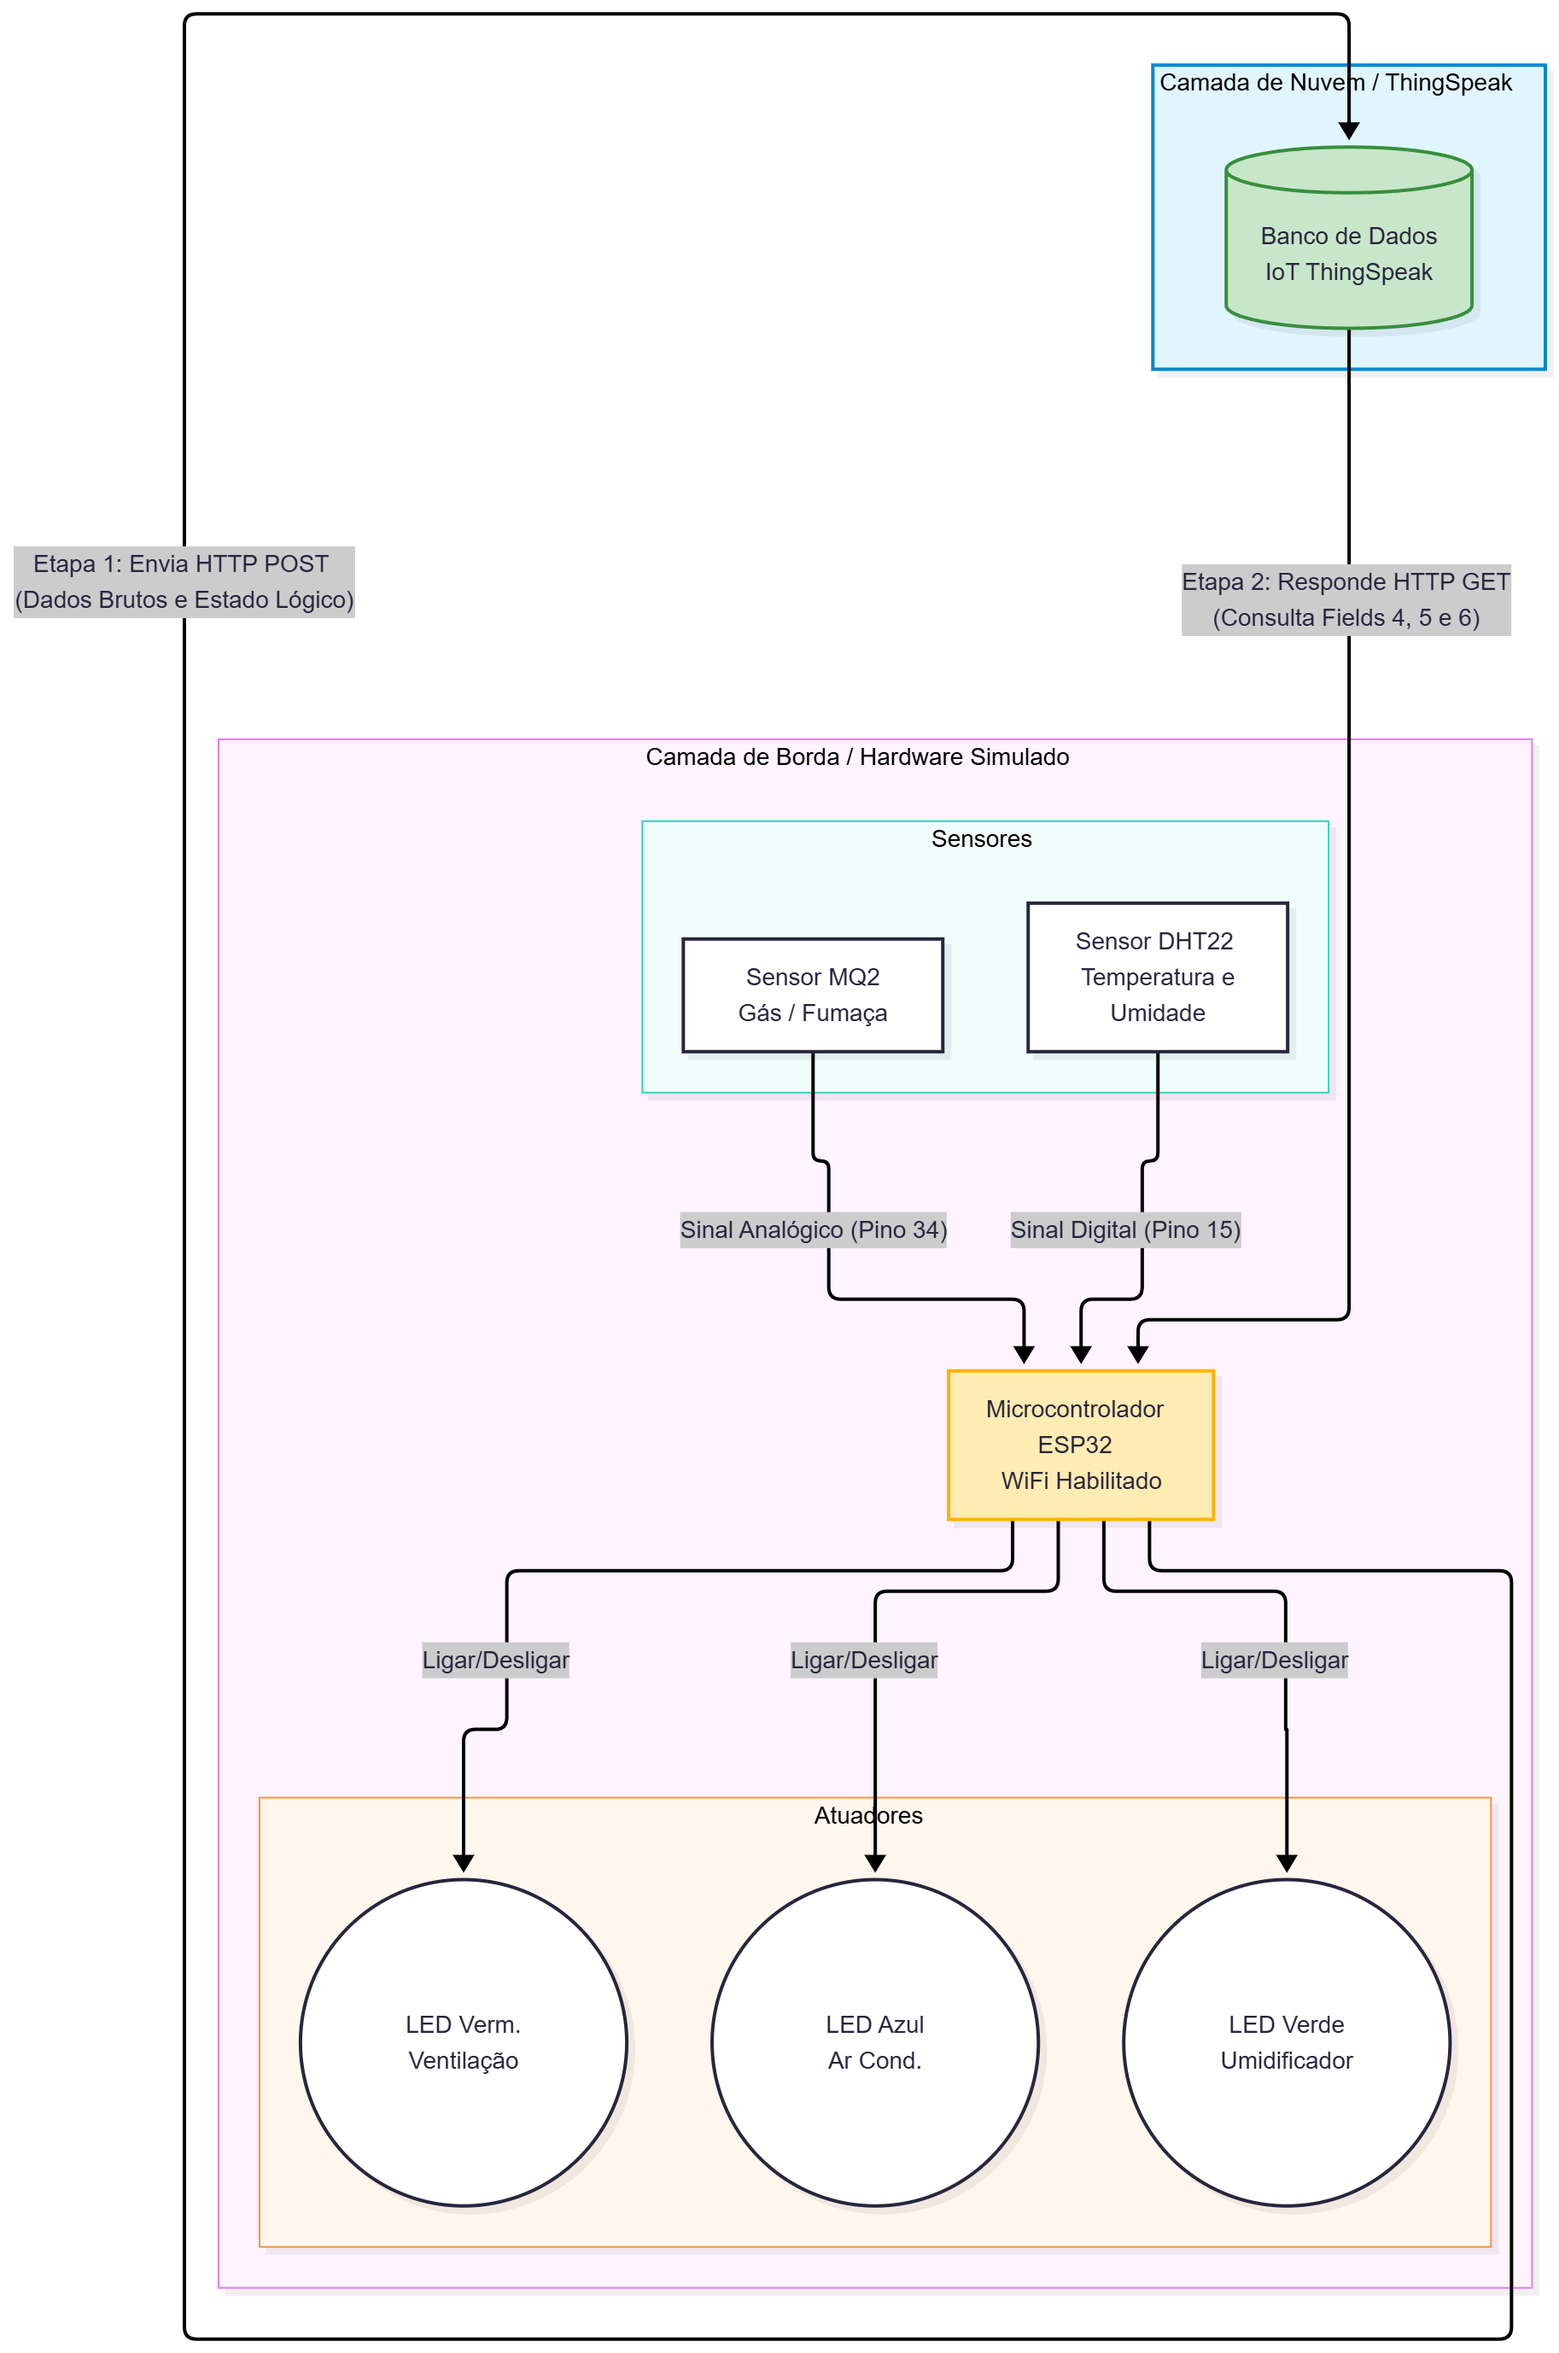
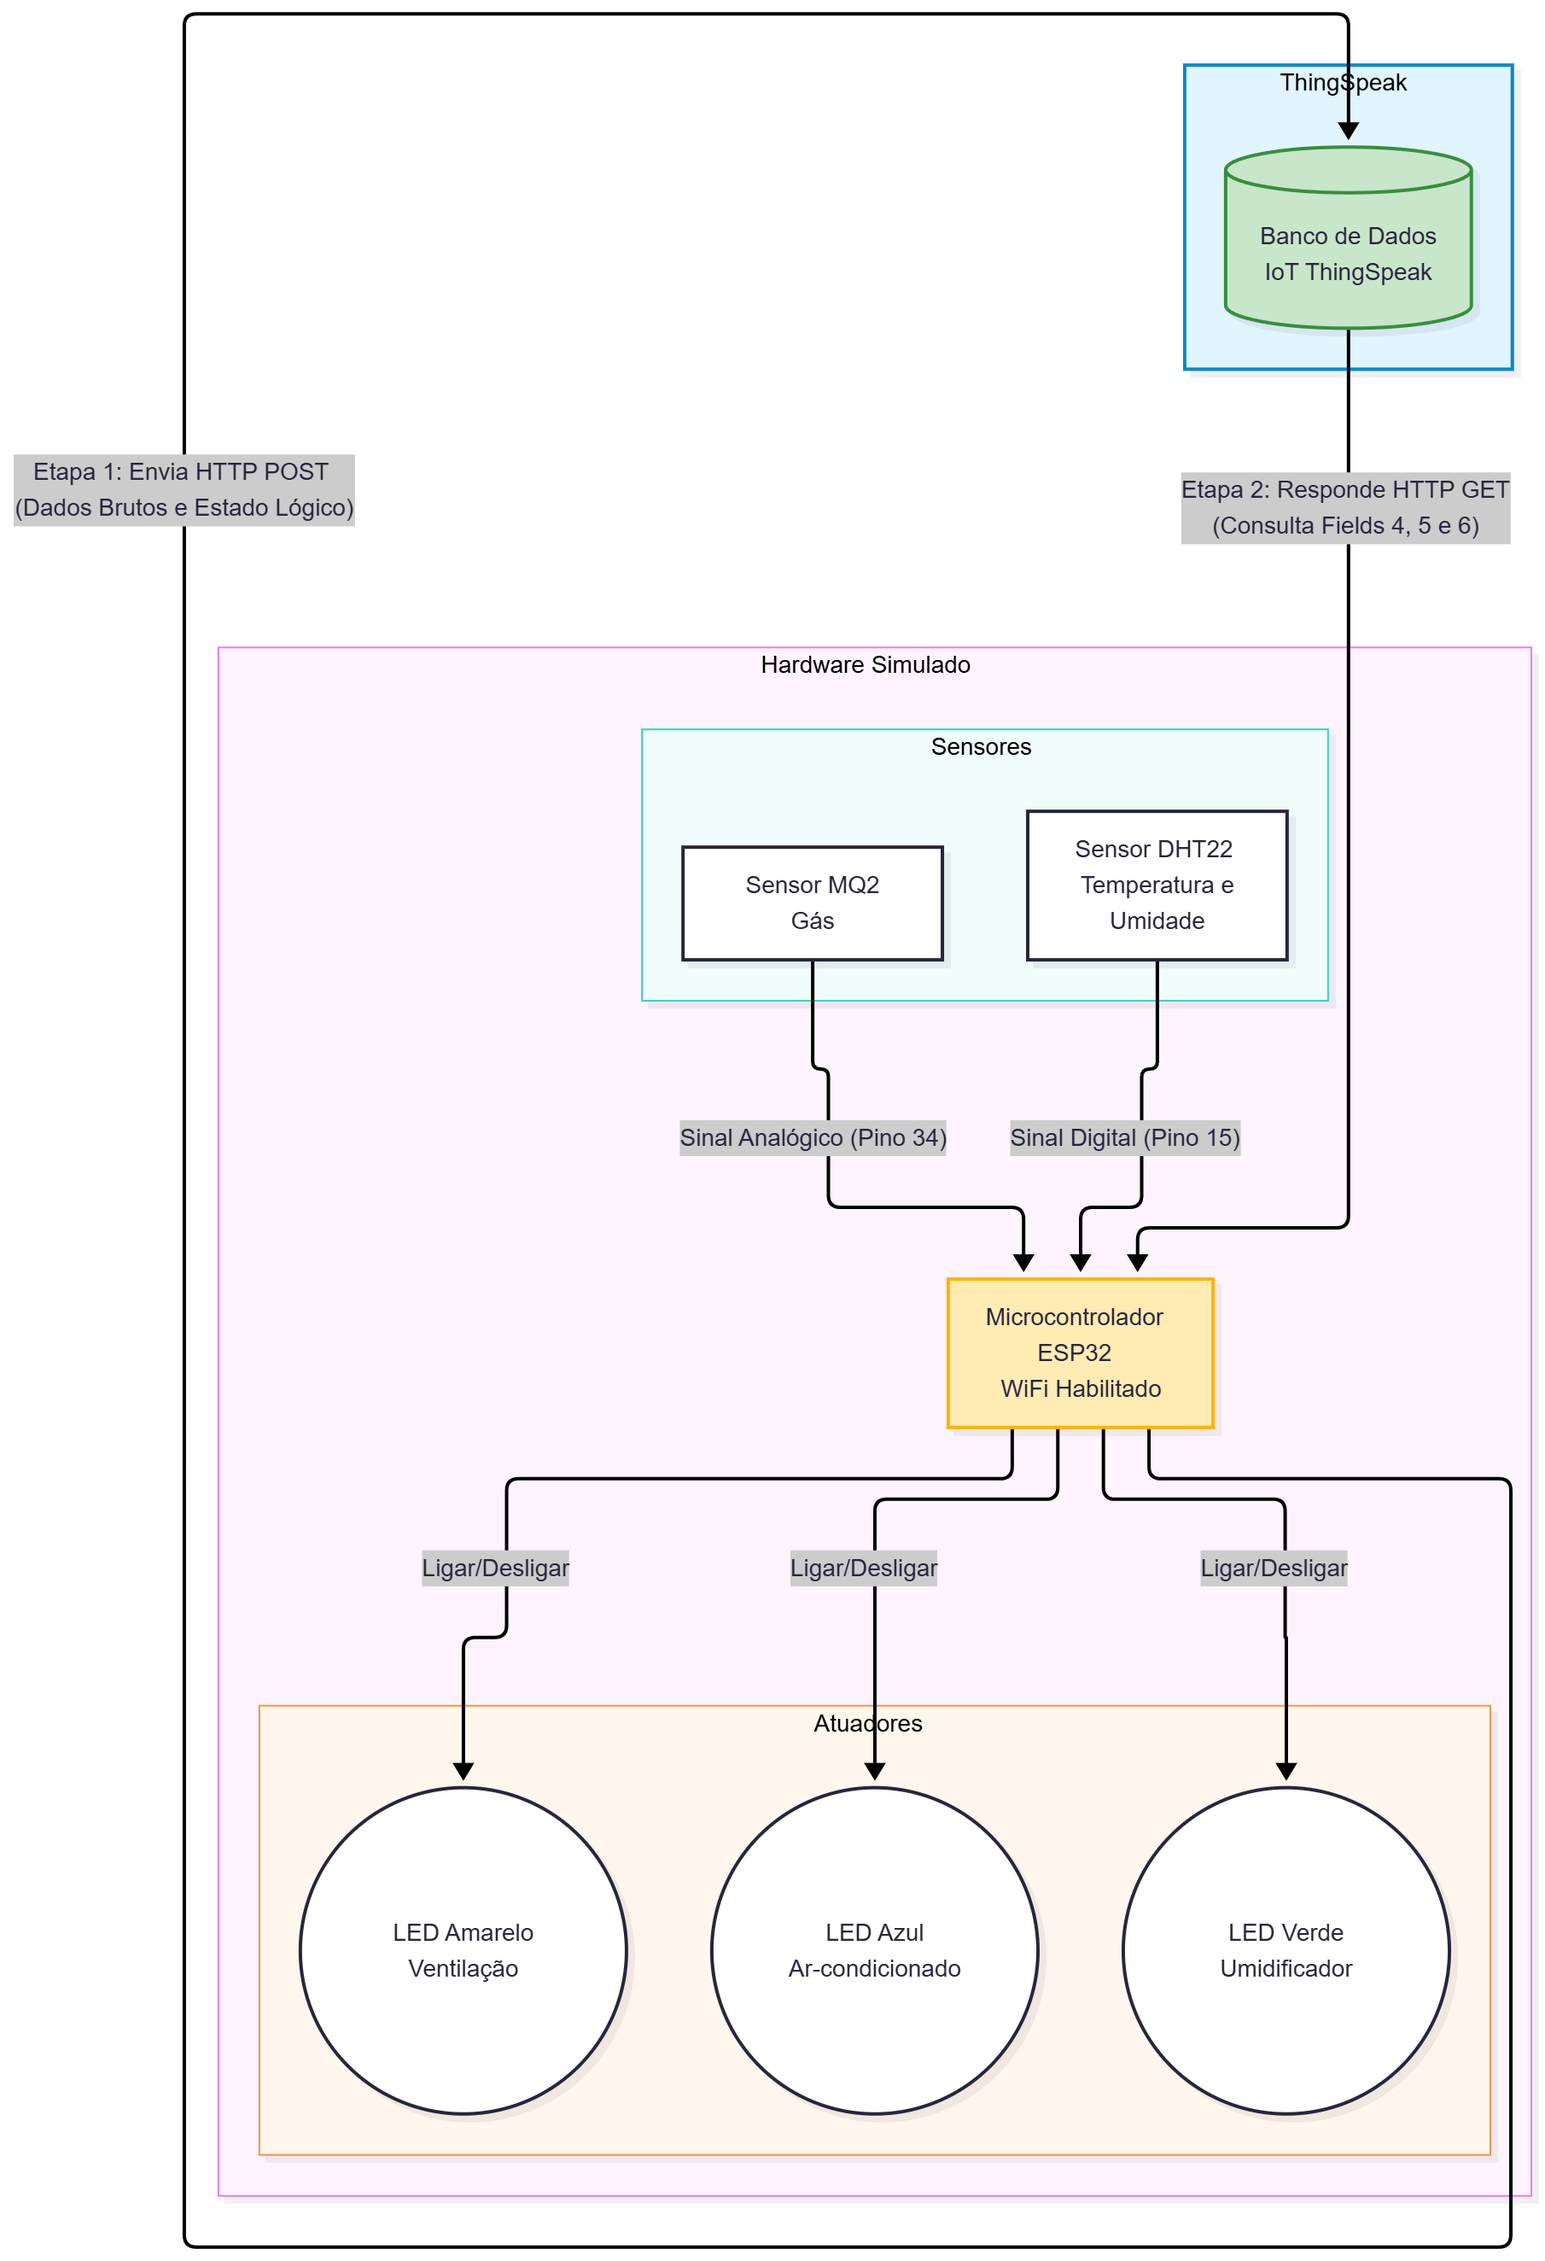
correcoes

diff --git a/docs/diagrama_arquitetura.md b/docs/diagrama_arquitetura.md
@@ -1,22 +1,22 @@
 graph TD
     %% Definição das camadas
-    subgraph Edge [Camada de Borda / Hardware Simulado]
+    subgraph Edge [Hardware Simulado]
         direction TB
         subgraph Sensores
             DHT22[Sensor DHT22 <br/> Temperatura e Umidade]
-            MQ2[Sensor MQ2 <br/> Gás / Fumaça]
+            MQ2[Sensor MQ2 <br/> Gás]
         end
 
         ESP32[Microcontrolador ESP32 <br/> WiFi Habilitado]
 
         subgraph Atuadores
-            AC((LED Azul <br/> Ar Cond.))
+            AC((LED Azul <br/> Ar-condicionado))
             UMI((LED Verde <br/> Umidificador))
-            VENT((LED Verm. <br/> Ventilação))
+            VENT((LED Amarelo <br/> Ventilação))
         end
     end
 
-    subgraph Nuvem [Camada de Nuvem / ThingSpeak]
+    subgraph Nuvem [ThingSpeak]
         TS[(Banco de Dados <br/> IoT ThingSpeak)]
     end
 
